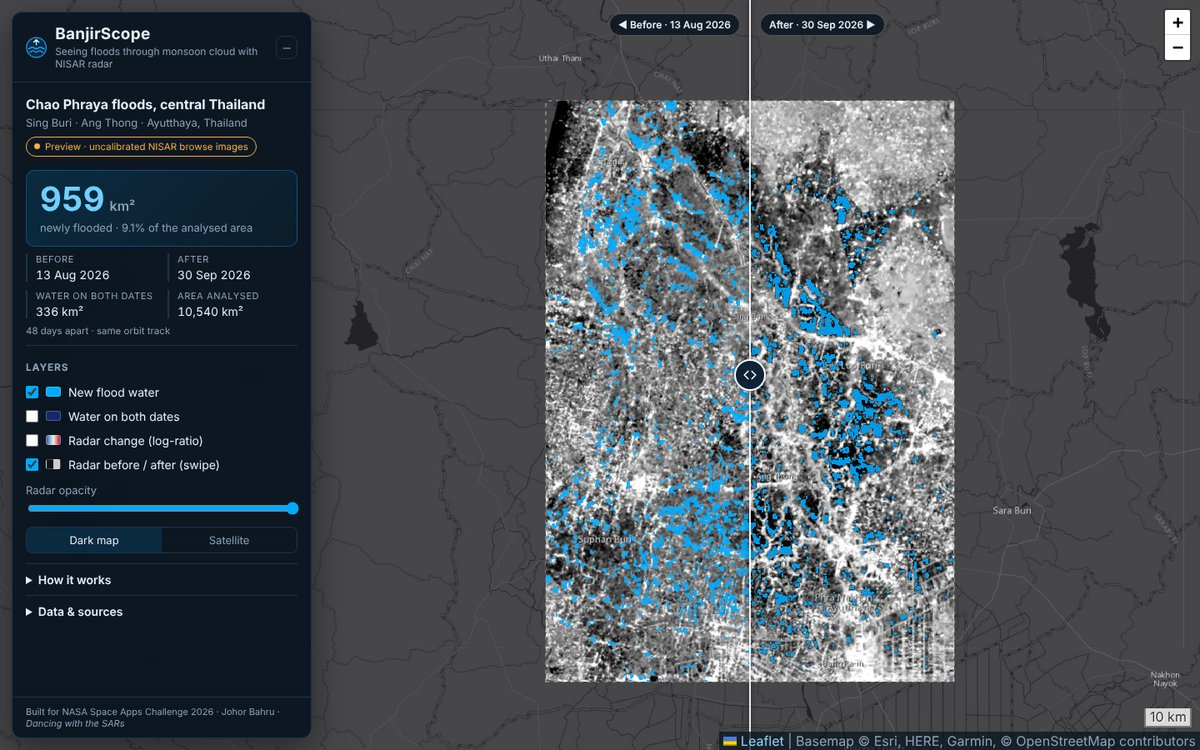
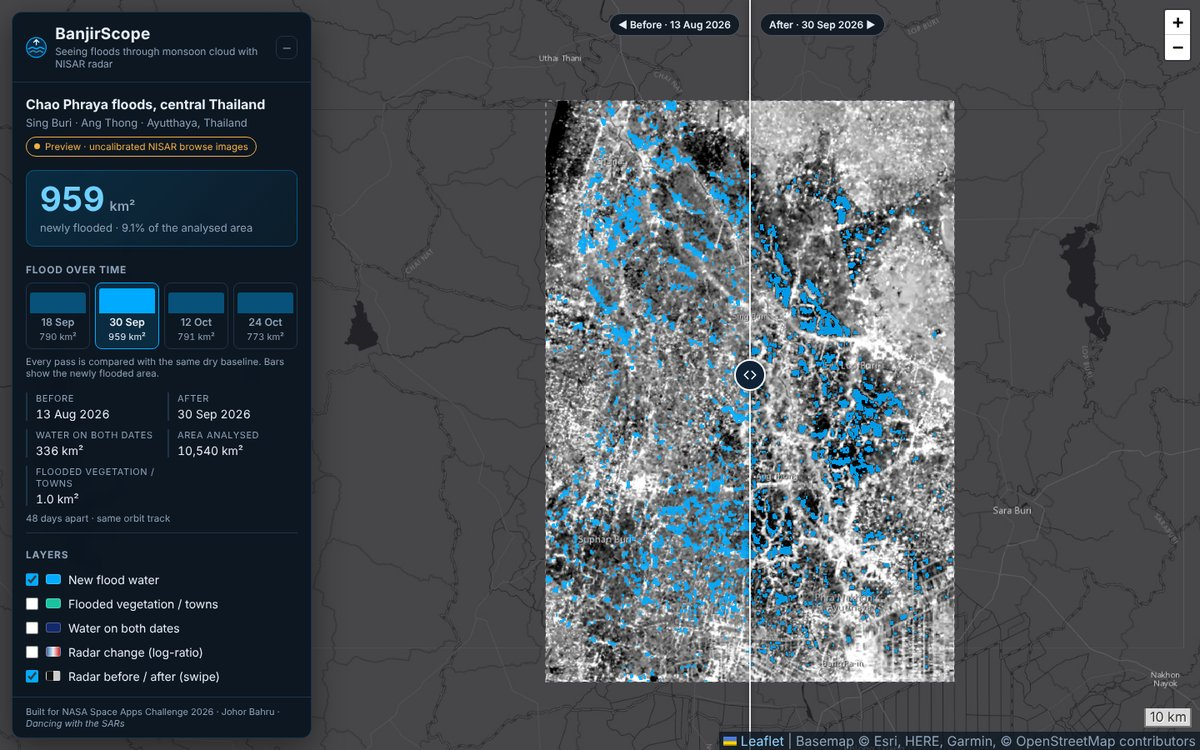
Add flooded vegetation / towns layer to the app and docs
Toggle (off by default) and a stats line that follow the selected flood
date, regenerated Chao Phraya layers for all four dates, README method
and limitations sections, and a refreshed screenshot with the timeline.

Changed region(s): [[0.0, 0.3373, 0.2467, 0.92]]

diff --git a/docs/app.js b/docs/app.js
@@ -174,6 +174,7 @@
     state.layers.change.setUrl(base + files.log_ratio);
     state.layers.perm.setUrl(base + files.permanent_water);
     state.layers.flood.setUrl(base + files.flood);
+    if (state.layers.veg && files.flooded_vegetation) state.layers.veg.setUrl(base + files.flooded_vegetation);
     markSelectedChip();
     renderPanel(state.meta);
   }
@@ -203,6 +204,10 @@
       change: overlay(meta.layers.log_ratio, { pane: "change", opacity: 0.75 }),
       perm: overlay(meta.layers.permanent_water, { pane: "water", className: "crisp" }),
       flood: overlay(meta.layers.flood, { pane: "water", className: "crisp" }),
+      // Optional layer: results produced before it existed simply don't list it
+      ...(meta.layers.flooded_vegetation
+        ? { veg: overlay(meta.layers.flooded_vegetation, { pane: "water", className: "crisp" }) }
+        : {}),
       outline: L.rectangle(b, { color: "#ffffff", weight: 1, opacity: 0.6, dashArray: "4 6", fill: false, interactive: false }),
     };
     state.layers.outline.addTo(map);
@@ -235,6 +240,7 @@
     $("change-legend").hidden = !$("layer-change").checked;
     show("perm", $("layer-perm").checked);
     show("flood", $("layer-flood").checked);
+    show("veg", $("layer-veg").checked);
     // keep flood above permanent water
     if (map.hasLayer(state.layers.flood)) state.layers.flood.bringToFront();
     setRadarOpacity();
@@ -246,7 +252,7 @@
     ["before", "after"].forEach((k) => state.layers[k] && state.layers[k].setOpacity(o));
   }
 
-  ["layer-flood", "layer-perm", "layer-change", "layer-radar"].forEach((id) =>
+  ["layer-flood", "layer-veg", "layer-perm", "layer-change", "layer-radar"].forEach((id) =>
     $(id).addEventListener("change", syncLayerToggles));
   $("radar-opacity").addEventListener("input", setRadarOpacity);
 
@@ -264,6 +270,20 @@
   });
 
   // -------------------------------------------------------------- panel
+  // ------------------------------------------- flooded vegetation / towns
+  // Optional layer (off by default). Its toggle and stats line are hidden
+  // for events whose meta.json has no flooded_vegetation layer. `stats` are
+  // the selected date's, so the number follows the timeline.
+  function renderVegetation(meta, stats) {
+    const has = Boolean(meta.layers.flooded_vegetation);
+    const km2 = stats.flooded_vegetation_km2;
+    $("veg-toggle").hidden = !has;
+    $("veg-stat").hidden = !has || km2 == null;
+    if (!has) $("layer-veg").checked = false;
+    // Small areas are common for this cautious layer, so keep one decimal
+    if (km2 != null) $("veg-km2").textContent = km2 < 10 ? `${km2.toFixed(1)} km²` : fmtKm2(km2);
+  }
+
   function renderPanel(meta) {
     const cur = currentDate();          // the flood date picked on the timeline
     const s = cur.stats;
@@ -283,6 +303,7 @@
     $("flood-pct").textContent = `· ${s.flood_pct}% of the analysed area`;
     $("perm-km2").textContent = fmtKm2(s.permanent_water_km2);
     $("mapped-km2").textContent = fmtKm2(s.mapped_area_km2);
+    renderVegetation(meta, s);
     $("date-before").textContent = fmtDate(meta.before.date);
     $("date-after").textContent = fmtDate(cur.date);
     $("days-between").textContent = `${cur.days_between} days apart · same orbit track`;

diff --git a/docs/index.html b/docs/index.html
@@ -69,6 +69,7 @@
         <div><dt>After</dt><dd id="date-after">–</dd></div>
         <div><dt>Water on both dates</dt><dd id="perm-km2">–</dd></div>
         <div><dt>Area analysed</dt><dd id="mapped-km2">–</dd></div>
+        <div id="veg-stat" hidden><dt>Flooded vegetation / towns</dt><dd id="veg-km2">–</dd></div>
       </dl>
       <p class="days" id="days-between"></p>
 
@@ -76,6 +77,8 @@
         <h3>Layers</h3>
         <label class="toggle"><input type="checkbox" id="layer-flood" checked>
           <span class="swatch" style="--c:#00aaff"></span>New flood water</label>
+        <label class="toggle" id="veg-toggle" hidden><input type="checkbox" id="layer-veg">
+          <span class="swatch" style="--c:#19c3a0"></span>Flooded vegetation / towns</label>
         <label class="toggle"><input type="checkbox" id="layer-perm">
           <span class="swatch" style="--c:#14286e"></span>Water on both dates</label>
         <label class="toggle"><input type="checkbox" id="layer-change">
@@ -101,9 +104,10 @@
           <li><b>Same viewpoint, two dates.</b> We compare a dry-season image with a flood-date image taken from the same orbit track, so differences come from the ground, not the viewing angle.</li>
           <li><b>Clean, then compare.</b> A Lee filter removes radar "speckle". Then a log-ratio image (after ÷ before, in dB) highlights where the ground got much darker.</li>
           <li><b>Automatic thresholds.</b> Otsu's method picks the water and change thresholds from the image histograms. A pixel is flooded if it is water now, wasn't before, and darkened strongly.</li>
+          <li><b>Water under trees and between houses.</b> There the pulse bounces off the water and then off a trunk or wall straight back to the satellite, so the area gets <i>brighter</i>. Trees and towns that brightened strongly right next to open flood water are shown as a separate layer.</li>
         </ol>
         <p class="thresholds" id="thresholds"></p>
-        <p class="caveat"><b>Limits:</b> flooded forests and towns can look <i>brighter</i> at L-band (the signal bounces off water and walls), so they are missed. Paddies flooded on purpose for planting can be counted as floods.</p>
+        <p class="caveat"><b>Limits:</b> the flooded vegetation / towns layer is deliberately cautious, because growing crops also get brighter; it misses flooding far from open water and is not counted in the headline area. Paddies flooded on purpose for planting can be counted as floods.</p>
       </details>
 
       <details class="sources">

diff --git a/README.md b/README.md
@@ -37,7 +37,8 @@ flowchart LR
    - *Change threshold:* among pixels that are water on the flood date, permanent water barely changes while new flood water darkened a lot. Two-class Otsu on their log-ratio splits the two groups.
    - A pixel is **flooded** if it is water now, was not water before, and darkened past the change threshold. A morphological opening and a minimum-area filter (OpenCV) remove leftover noise.
 6. **Follow the flood over time.** NISAR passes over the same track every 12 days, so an event can list several flood dates. Each one is compared with the *same* dry baseline on the *same* grid, with its own Otsu thresholds, and all images share one brightness stretch so they can be compared by eye. The app shows a chip per date with a bar for its flooded area.
-7. **Publish as plain files.** Results are exported as transparent PNG overlays plus a `meta.json` with bounds and statistics. The web app is one static page, so it runs on GitHub Pages with no backend.
+7. **Look for water under trees and between buildings.** L-band passes through canopies. Where water stands under trees or between houses, the pulse bounces off the flat water, then off a trunk or wall, and straight back to the satellite ("double bounce"), so these places get *brighter* instead of darker. A separate layer flags pixels that were already bright before (the towns/trees class of a three-class Otsu on the dry-date image), brightened past a rise threshold (Otsu on the positive log-ratios, never below +3 dB) and lie within 1 km of open flood water. It is reported separately as `flooded_vegetation_km2`; the headline flooded area stays open water only.
+8. **Publish as plain files.** Results are exported as transparent PNG overlays plus a `meta.json` with bounds and statistics. The web app is one static page, so it runs on GitHub Pages with no backend.
 
 Flooded area is computed on the ground, correcting for Web-Mercator's stretch (pixel side × cos(latitude)).
 
@@ -52,6 +53,7 @@ Malaysia has excellent NISAR coverage (a pass every 12 days over every state sin
 | Before | 13 Aug 2026 — `NISAR_L2_PR_GCOV_028_004_D_081_4005_DHDH_A_20260813T114712_…` |
 | After | 30 Sep 2026 — `NISAR_L2_PR_GCOV_032_004_D_081_4005_DHDH_A_20260930T114712_…` |
 | Result (preview mode) | **≈ 959 km² newly flooded** (9.1% of the 10,540 km² analysed) |
+| Flooded vegetation / towns (preview mode) | ≈ 1 km² flagged next to open flood water; the 150 m preview pixels are too coarse for this layer |
 
 ![Before, after and detected flood water](docs/data/thailand-chao-phraya-2026/summary.png)
 
@@ -82,7 +84,7 @@ The mapped flood peaks on 30 September. By late October the northern part of the
 │   ├── io_gcov.py               stream/subset NISAR GCOV HDF5 (Earthdata token)
 │   ├── io_preview.py            free browse-image stand-in ("preview mode")
 │   ├── processing.py            multilook, Lee filter, dB, Web-Mercator resampling
-│   ├── detection.py             log-ratio + Otsu flood detection, cleanup, area
+│   ├── detection.py             log-ratio + Otsu flood detection, flooded vegetation, cleanup, area
 │   ├── timeline.py              multi-date events: flood dates, shared display stretch
 │   └── export.py                PNG overlays, meta.json, events index
 ├── scripts/
@@ -94,8 +96,8 @@ The mapped flood peaks on 30 September. By late October the northern part of the
 │                                multi-date config and output layout
 └── docs/                        the static web app (GitHub Pages serves this folder)
     ├── index.html, app.js, style.css, vendor/leaflet/
-    └── data/<event-id>/         before.png + meta.json, and the after/flood/water/change
-                                 PNGs (in one <date>/ folder per flood date for a timeline)
+    └── data/<event-id>/         before.png + meta.json, and the after/flood/water/change/
+                                 flooded-vegetation PNGs (one <date>/ folder per flood date)
 ```
 
 ## How to run
@@ -103,7 +105,7 @@ The mapped flood peaks on 30 September. By late October the northern part of the
 ```bash
 python -m venv .venv && source .venv/bin/activate      # Windows: .venv\Scripts\activate
 pip install -r requirements.txt
-python -m pytest -q                                     # 19 tests, ~1 s
+python -m pytest -q                                     # 22 tests, ~1 s
 ```
 
 **1. Explore coverage (no login needed)**
@@ -152,7 +154,7 @@ Push the repository to GitHub, then go to **Settings → Pages → Build and dep
 
 ## Limitations and next steps
 
-- **Flooded vegetation and towns are missed.** At L-band, water under trees or between buildings causes a "double bounce" (water → trunk/wall → satellite) that makes these areas *brighter*. Detecting that rise (positive log-ratio in forest/urban areas) is a natural next step.
+- **Flooded vegetation and towns are only partly mapped.** Growing crops also get brighter between passes (rice gains a few dB over a season), so the double-bounce layer is deliberately strict and prefers missing real flooding to raising false alarms. It ignores fields, weak rises and anything far from open flood water, and patches smaller than about 3×3 pixels are removed (450 m in preview mode, so there it finds very little). Treat it as "likely flooded", best used with calibrated 30 m data; a land-cover map or HH/HV ratio would make it more reliable.
 - **Intentionally flooded rice paddies** can be counted as flood water. A land-cover mask or a multi-date seasonal baseline would reduce this.
 - **Terrain:** radar shadow in steep terrain is also dark. A HAND (height above nearest drainage) mask would remove false positives in hills.
 - **Timeline thresholds:** each date picks its own Otsu thresholds, which suits calibrated data. In preview mode it makes date-to-date differences less reliable than the maps themselves.
